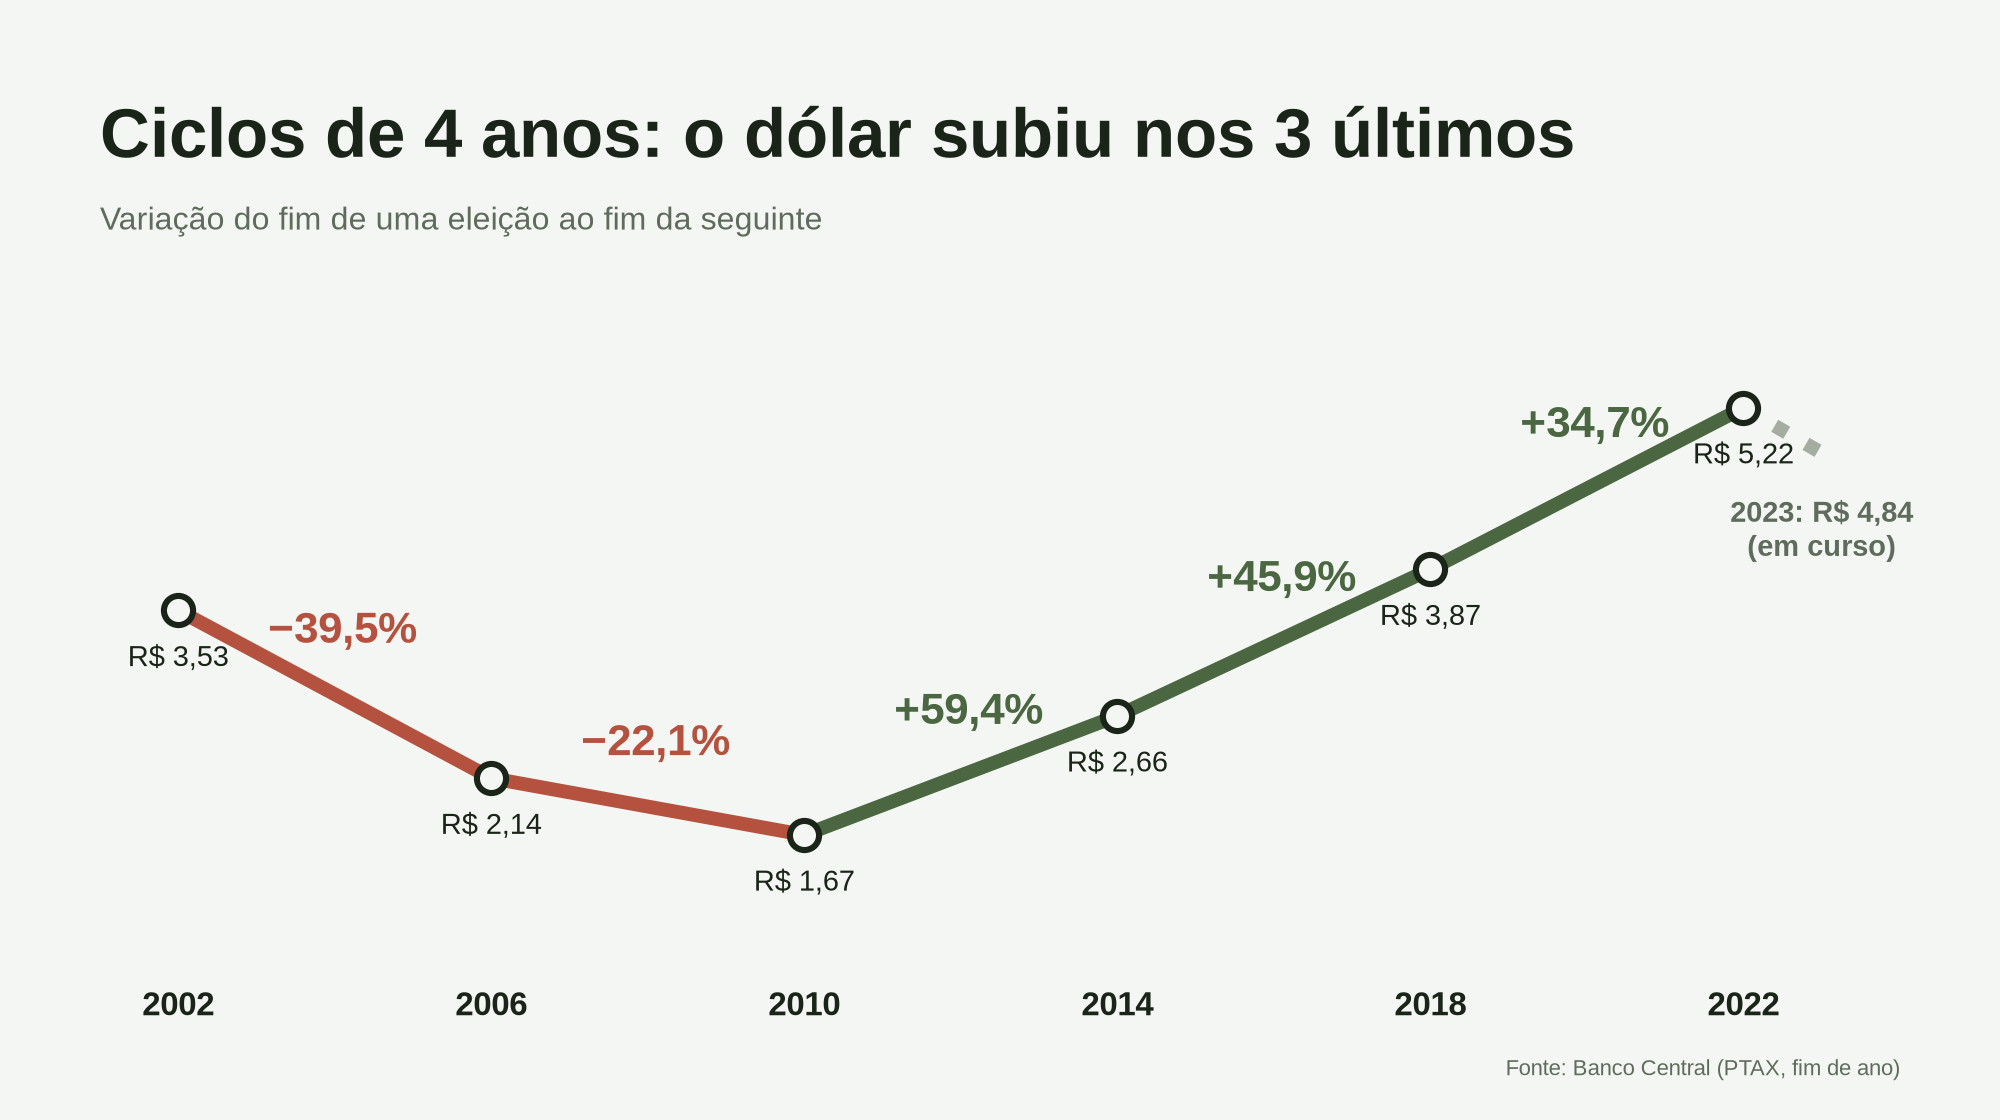
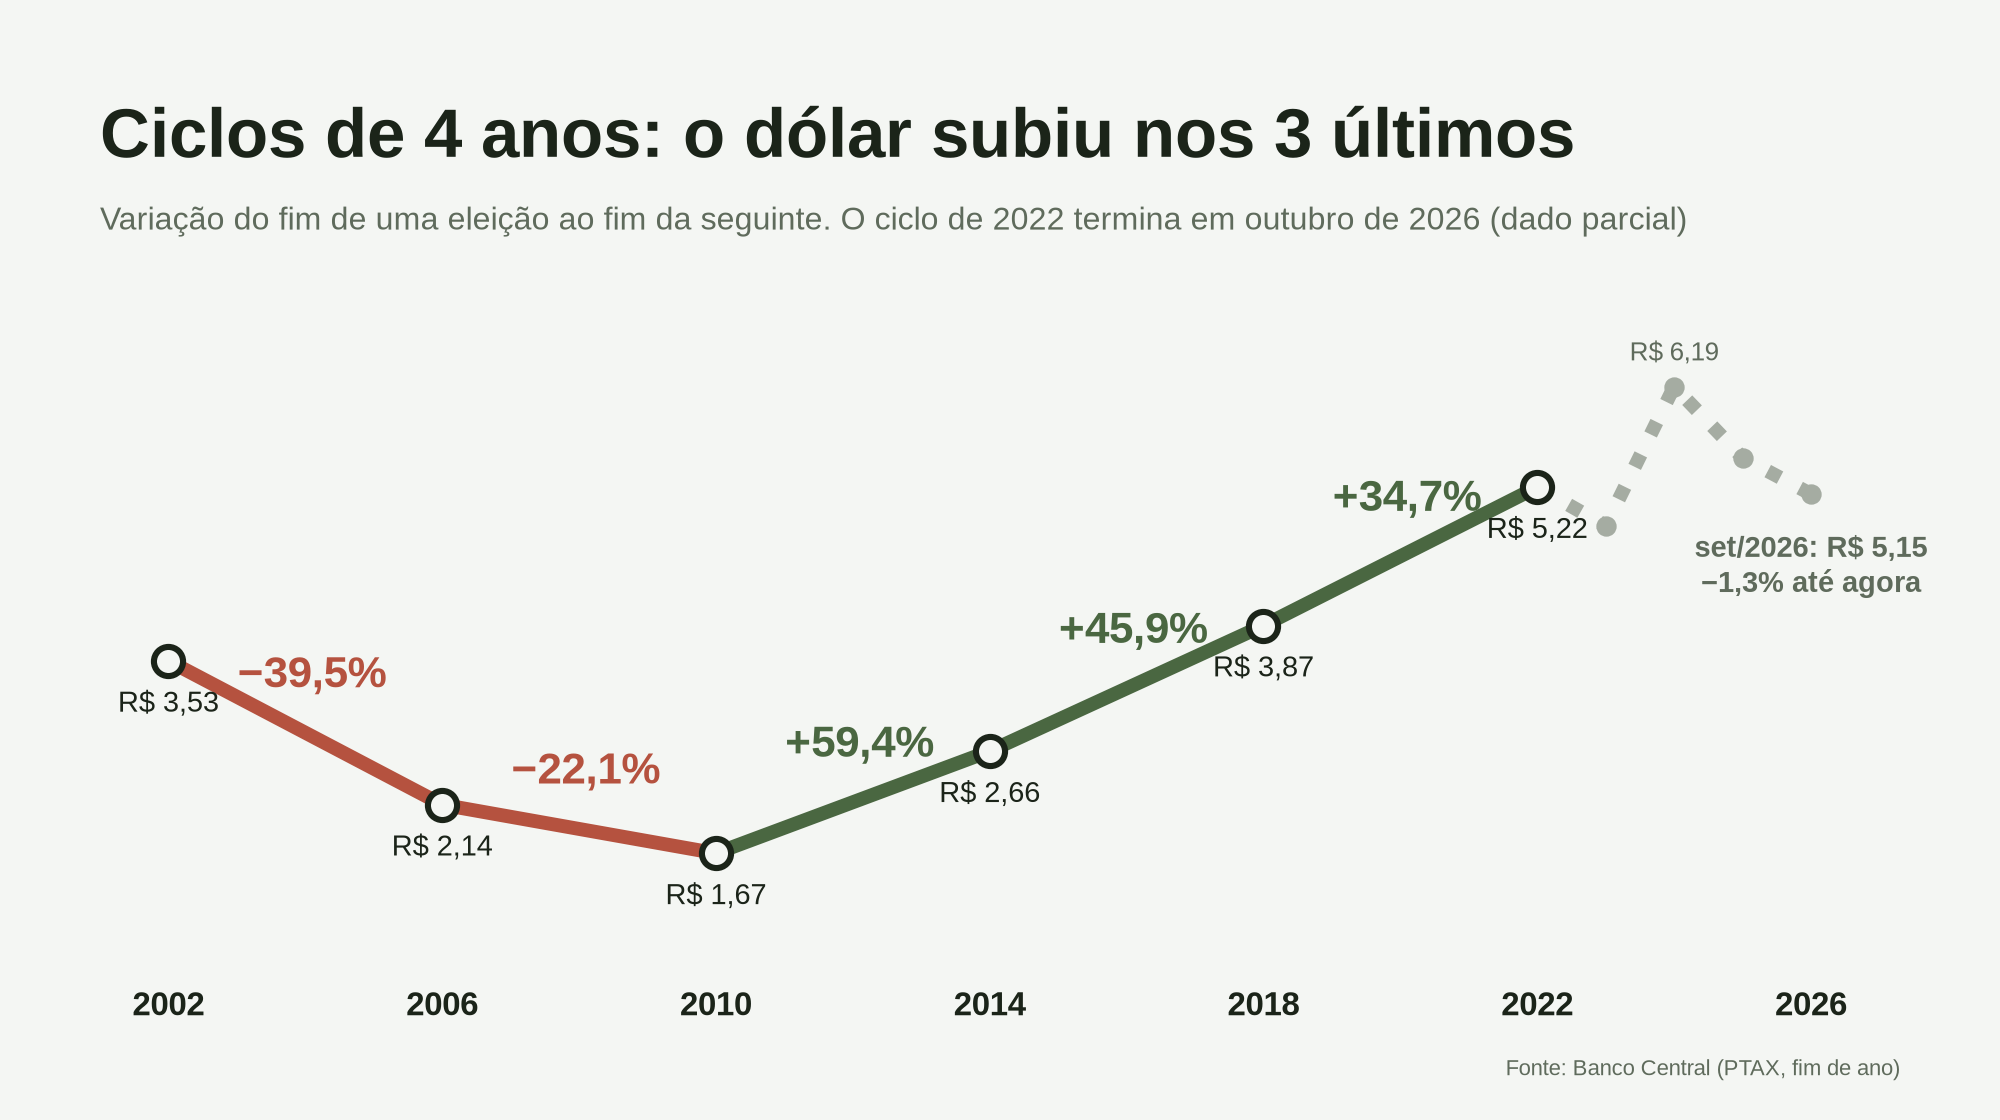
Estende ciclo de 2022 até set/2026 no gráfico de ciclos
Claude-Session: https://claude.ai/code/session_0199Y78iJYXbJq94ojXAjU9F

diff --git a/dolar_pos_eleicao.py b/dolar_pos_eleicao.py
@@ -8,6 +8,8 @@ import matplotlib.pyplot as plt
 fim_ano = {2002: 3.5325, 2003: 2.8884, 2006: 2.1380, 2007: 1.7713, 2010: 1.6662,
            2011: 1.8758, 2014: 2.6562, 2015: 3.9048, 2018: 3.8748, 2019: 4.0307,
            2022: 5.2177, 2023: 4.8413}
+# Anos após 2022 (ciclo em curso): PTAX fim de 2024 e 2025; 2026 = cotação de meados de set/2026 (aprox.)
+curso = {2023: 4.8413, 2024: 6.1923, 2025: 5.5018, 2026: 5.15}
 tabela = {2002: -18.2, 2006: -17.2, 2010: 12.6, 2014: 47.0, 2018: 4.0, 2022: -7.2}
 tabela4 = {2002: -39.5, 2006: -22.1, 2010: 59.4, 2014: 45.9, 2018: 34.7}
 
@@ -61,19 +63,23 @@ fig.savefig("dolar_1_ano_pos_eleicao.png", facecolor=BG); plt.close(fig)
 
 # ---- 2) ciclos de 4 anos
 fig, ax = base("Ciclos de 4 anos: o dólar subiu nos 3 últimos",
-               "Variação do fim de uma eleição ao fim da seguinte")
+               "Variação do fim de uma eleição ao fim da seguinte. O ciclo de 2022 termina em outubro de 2026 (dado parcial)")
 for k, a in enumerate(anos[:-1]):
     b = anos[k + 1]; v = quatro[a]; c = cor(v)
     ax.plot([a, b], [fim_ano[a], fim_ano[b]], color=c, lw=5, solid_capstyle="round")
     ym = (fim_ano[a] + fim_ano[b]) / 2
     ax.text((a + b) / 2 + .1, ym + .35, rot(v), ha="center", va="bottom", fontsize=16, fontweight="bold", color=c)
-ax.plot([2022, 2023], [fim_ano[2022], fim_ano[2023]], color="#a5aca2", lw=5, ls=(0, (1, 1.6)), solid_capstyle="round")
-ax.text(2023, fim_ano[2023] - .35, "2023: R$ 4,84\n(em curso)", ha="center", va="top", fontsize=10.5, color=MUTED, fontweight="bold", linespacing=1.3)
+cx = [2022, 2023, 2024, 2025, 2026]; cy = [fim_ano[2022]] + [curso[y] for y in cx[1:]]
+ax.plot(cx, cy, color="#a5aca2", lw=5, ls=(0, (1, 1.6)), solid_capstyle="round")
+ax.scatter(cx[1:], cy[1:], s=40, color="#a5aca2", zorder=3)
+ax.text(2026, curso[2026] - .35, "set/2026: R$ 5,15\n" + rot((curso[2026] / fim_ano[2022] - 1) * 100) + " até agora", ha="center", va="top", fontsize=10.5, color=MUTED, fontweight="bold", linespacing=1.3)
+ax.text(2024, curso[2024] + .2, "R$ 6,19", ha="center", va="bottom", fontsize=9.5, color=MUTED)
 ax.scatter(anos, [fim_ano[a] for a in anos], s=110, color=BG, edgecolor=INK, lw=2.2, zorder=3)
 for a in anos:
     ax.text(a, fim_ano[a] - .28, "R$ " + f"{fim_ano[a]:.2f}".replace(".", ","), ha="center", va="top",
             fontsize=10.5, color=INK)
-ax.set_xticks(anos + [2023]); ax.set_xticklabels([str(a) for a in anos] + [""], color=INK, fontsize=12, fontweight="bold")
+ax.set_xlim(2001, 2027.3); ax.set_ylim(0.6, 6.9)
+ax.set_xticks(anos + [2026]); ax.set_xticklabels([str(a) for a in anos] + ["2026"], color=INK, fontsize=12, fontweight="bold")
 fig.savefig("dolar_ciclo_4_anos.png", facecolor=BG); plt.close(fig)
 
 # ---- 3) USD/BRL x DXY por ciclo
